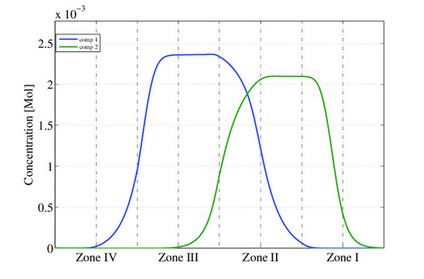
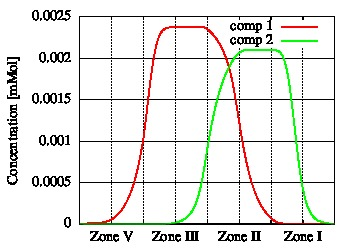
update the README file

Changed region(s): [[0.0, 0.0278, 0.9472, 0.9722]]

diff --git a/README.md b/README.md
@@ -6,54 +6,61 @@ CADET-SMB is a comprehensive simulator for analysis and design of simulated movi
 
 # Introduction
 
-There are various practical modes of preparative chromatography. Cyclic batch elution chromatography is most frequently applied, and an efficient simulator is provided in the CADET framework (https://github.com/modsim/CADET). In counter-current chromatography, the fluid and solid phases are moved through the column in opposite directions. Since the true moving bed (TMB) process is technically very hard to implement, the simulated moving bed (SMB) process is usually applied. In this repository, we offer an extension of the CADET framework, CADET-SMB, for simulating SMB chromatographic processes.
+There are various practical modes of preparative chromatography. Cyclic batch elution chromatography is most frequently applied, and an efficient simulator is provided in the CADET framework (https://github.com/modsim/CADET). In counter-current chromatography, the fluid and solid phases are moved through the column in opposite directions. Since the true moving bed (TMB) process is technically hard to implement, the simulated moving bed (SMB) process is usually applied. In this repository, we offer an extension of the CADET framework, CADET-SMB, for simulating SMB chromatographic processes.
 
 # Features
 
 Code features are organized into network setup, numerical methods, and inverse problems.
 
-## Network setup
+## Network topology
 
-[//]: (https://github.com/modsim/CADET-SMB/blob/master/doc/Network_setup.JPG)
-
-SMB chromatography has originally been developed for binary (two components) separations. This is typically achieved using four distinct zones with one or more column each. Later, SMB variants have been developed for ternary (three components) separations. Two major strategies can be distinguished, both of which have advantages and disadvantages: a) sequential cascade of two conventional SMB units with eight zones in total, and b) integrated SMB units with eight or down to five zones. Moreover, CADET-SMB can be set-up with arbitrary column configurations, e.g., for simulating multicolumn countercurrent solvent gradient purification (MCSGP).
+SMB chromatography has originally been developed for binary (two components) separations. This is typically achieved by using four distinct zones with one or more columns each. Later, SMB variants have been developed for ternary (three components) separations. Two major strategies can be distinguished, both of which have advantages and disadvantages: a) sequential cascade of two conventional SMB units with eight zones in total, and b) integrated SMB units with eight or down to five zones. Moreover, CADET-SMB can be set-up with arbitrary column configurations, e.g., for simulating multicolumn counter-current solvent gradient purification (MCSGP).
 
 ## Numerical methods
 
-[//]: (https://github.com/modsim/CADET-SMB/blob/master/doc/Numerical_computing.JPG)
-
-CADET-SMB provides two classes of numerical solution approaches: a) fixed point iteration (FPI) for computing the cyclic steady state (CSS) of an SMB unit, and b) operator splitting (OSP) for computing the dynamic trajectory (DTR) from any initial system state into the CSS. Two variants are implemented for each approach, standard versions (STD-FPI, STD-OPS) and alternatives with significantly improved numerical efficience, namely fixed point iteration for the one-column analog (OCA-FPI) and lag-aware operator splitting (LAW-OPS). The improved perfornamce of these numerical methods can be particularly useful in optimization settings. Details on all four approaches can be found in the documentation.
+CADET-SMB provides two classes of numerical solution approaches: a) fixed point iteration (FPI) for computing the cyclic steady state (CSS) of an SMB unit, and b) operator splitting (OSP) for computing the dynamic trajectory (DTR) from any initial system state into the CSS. Two variants are implemented for each approach, standard versions (STD-FPI, STD-OPS) and alternatives with significantly improved numerical efficiency, namely fixed point iteration for the one-column analog (OCA-FPI) and lag-aware operator splitting (LAW-OPS). The improved performance of these numerical methods can be particularly useful in optimization settings. Details on all four approaches can be found in the documentation.
 
 ## Inverse problems
 
-[//]: (https://github.com/modsim/CADET-SMB/blob/master/doc/Inverse_problems.JPG)
-
-In SMB chromatography, both the operating conditions (column dimensions, flow rates, switch times) and the the column configuration (network topology) can be optimized, leading to a mixed-integer optimization problem. However, optimization of the (discrete) column donfiguration is not yet implemented in CADET-SMB. For any given network topology, the operating conditions can be optimized with repect to user-specified objectives, e.g., purity, yield, cost. As these objectives are to be optimized in CSS, only the FPI approach is supported. Available search strategies include standard MATLAB functionality, particle swarm optimization (PSO), differential evolution (DE), and Metropolis adjusted differential evolution (MADE).
+In SMB chromatography, both the operating conditions (column dimensions, flow rates, switch times) and the column configurations (network topology) can be optimized, leading to a mixed-integer nonlinear programming problem. However, optimization of the (discrete) column configuration is not yet implemented in CADET-SMB. For any given network topology, the operating conditions can be optimized with respect to user-specified objectives, e.g., purity, yield, cost. As these objectives are to be optimized in CSS, only the FPI approach is supported. Available search strategies include standard MATLAB functionality, particle swarm optimization (PSO), differential evolution (DE), Markov Chain Monte Carlo (DRAM version) and Metropolis adjusted differential evolution (MADE).
 
 ## Detailed feature list
 
-[//]: (https://github.com/modsim/CADET-SMB/blob/master/doc/diagram.JPG)
-
 * Binary separation is available using the four-zone scheme;
 
-* Ternary separation is available using the cascade scheme, the integrated eight zone or five zone schemes;
+![](https://github.com/modsim/CADET-SMB/blob/master/doc/scheme_binary.JPG)
 
-![](https://github.com/modsim/CADET-SMB/blob/master/doc/scheme.JPG)
-*Four zone scheme for binary separation and integrated five zone scheme for ternary separation*
-
-![](https://github.com/modsim/CADET-SMB/blob/master/doc/scheme_8.JPG)
-*integrated eight zone scheme for ternary separation with internal raffinate and extract ports*
-
-![](https://github.com/modsim/CADET-SMB/blob/master/doc/cascade.JPG)
-*Cascade scheme*
-
+*Four zone scheme for binary separations*
 
 ![](https://github.com/modsim/CADET-SMB/blob/master/doc/profile_binary.JPG)
-![](https://github.com/modsim/CADET-SMB/blob/master/doc/profile_ternary_5.JPG)
-*Chromatogram with four-zone and five-zone scheme*
+
+*The chromatogram of the four-zone SMB*
+
+* Ternary separation is available using the cascade scheme, the integrated eight-zone or five-zone schemes;
+
+![](https://github.com/modsim/CADET-SMB/blob/master/doc/scheme_cascade.JPG)
+
+*Cascade scheme for ternary separations*
+
+![](https://github.com/modsim/CADET-SMB/blob/master/doc/profile_cascade.JPG)
+
+*The respective chromatograms of the cascade system*
+
+![](https://github.com/modsim/CADET-SMB/blob/master/doc/scheme_ternary_8.JPG)
+
+*Eight-zone scheme for ternary separations*
 
 ![](https://github.com/modsim/CADET-SMB/blob/master/doc/profile_ternary_8.JPG)
-*Chromatogram with eight-zone scheme*
+
+*The chromatogram of the eight-zone scheme*
+
+![](https://github.com/modsim/CADET-SMB/blob/master/doc/scheme_ternary_5.JPG)
+
+*integrated five zone scheme for ternary separations*
+
+![](https://github.com/modsim/CADET-SMB/blob/master/doc/profile_ternary_5.JPG)
+
+*The chromatogram of the eight-zone scheme*
 
 * In both binary and ternary separations, arbitrary column configurations are available, in addition to basic column configurations such as 1-1-1-1, 2-2-2-2-2, 3-3-3-3, and 4-4-4-4-4;
 
@@ -82,7 +89,7 @@ In SMB chromatography, both the operating conditions (column dimensions, flow ra
 # Dependency and Platforms
 
 * Matlab(R2010b or higher);
-* CADET (version 2.3.2 or later);
+* CADET (version 2.3.2);
 * platforms, please see the Dependencies section in the CADET wiki.
 
 # Tutorial and Instructions
